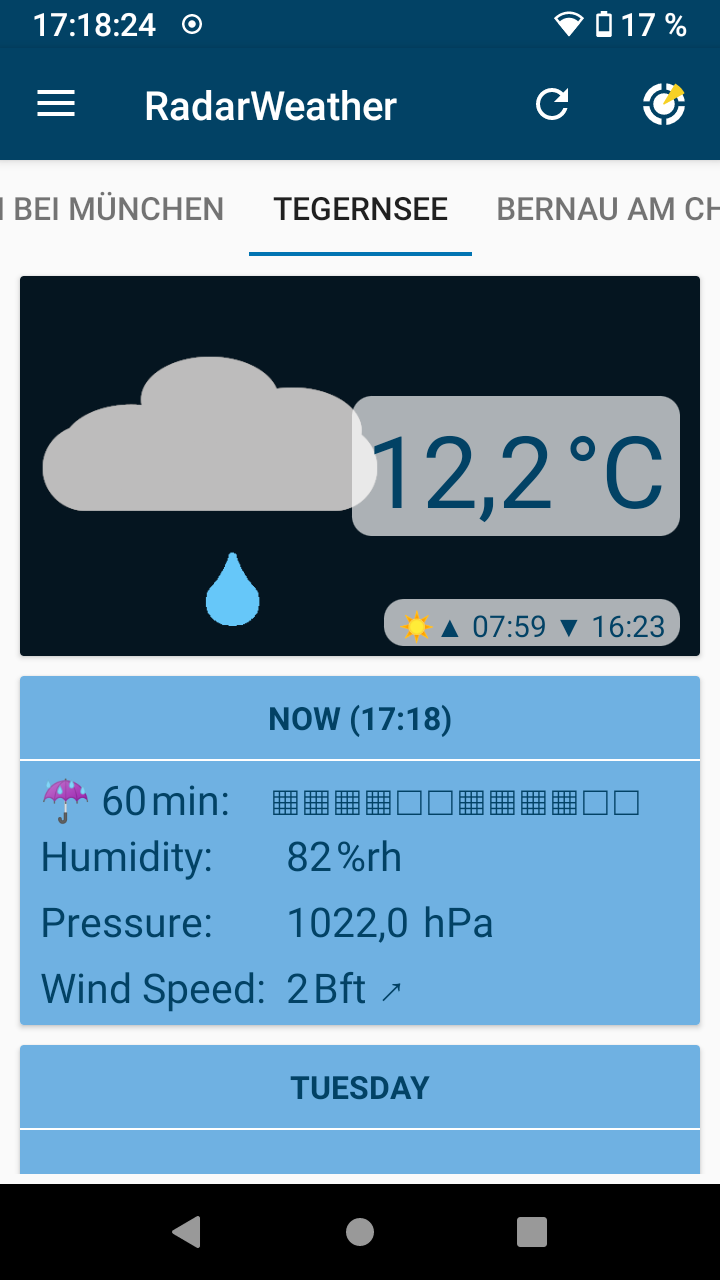
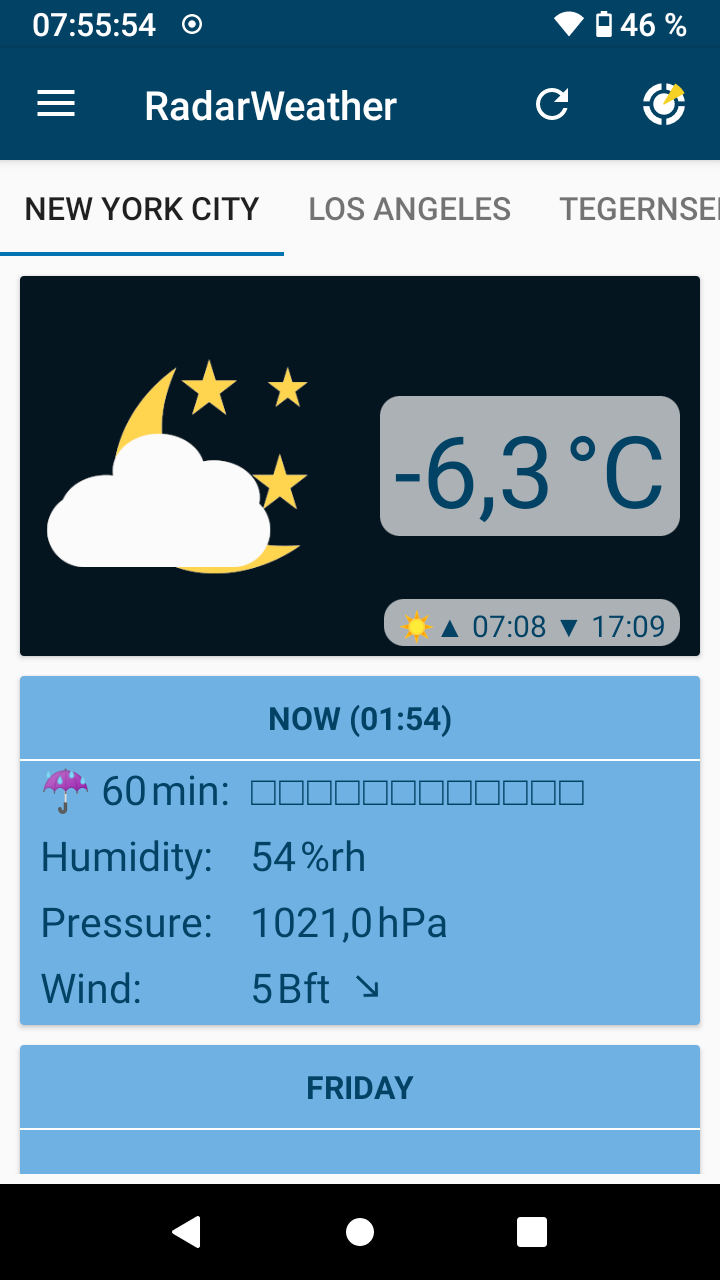
Release version v1.5

diff --git a/CHANGELOG.md b/CHANGELOG.md
@@ -1,5 +1,11 @@
 Changelog
 ==========
+
+Version 1.5 (2021-01-29)
+
+ * Improved GUI
+ * Code cleanup, replaced deprecated APIs
+
 Version 1.4 (2021-01-17)
 
  * Added translation for Russian #2
